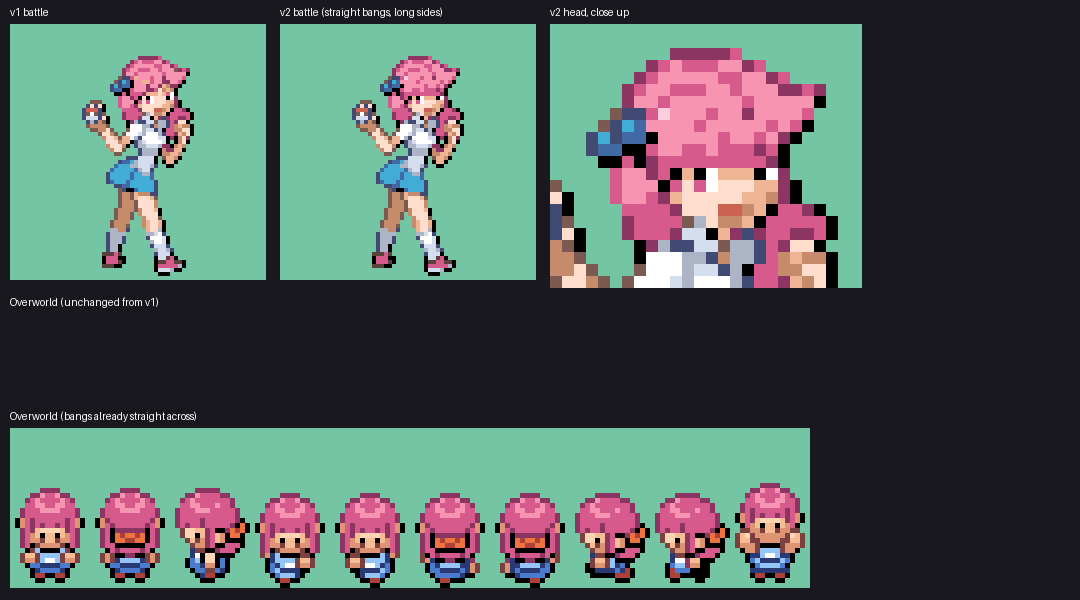
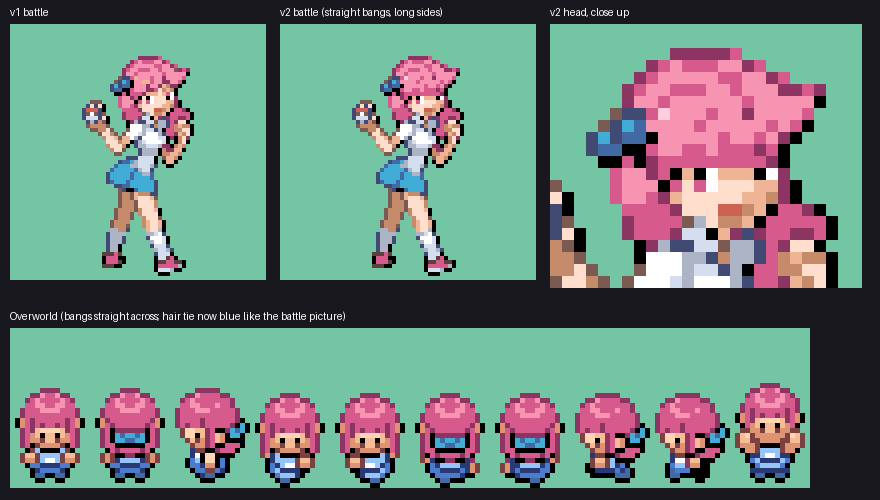
ARIA: Copycat overworld hair tie blue to match her battle picture; cleaner v2 picture
Claude-Session: https://claude.ai/code/session_019khs4XZ7wjpndpyxbzK4Je

diff --git a/tools/aria_copycat_sprites.py b/tools/aria_copycat_sprites.py
@@ -18,5 +18,6 @@ def recolor(path, mapping, keep=lambda x,y,i:False):
 bp=recolor(R+'trainers/front_pics/lass_frlg.png',{11:PINK[1],10:PINK[2],9:PINK[3]},keep=lambda x,y,i:i==9 and y>=56)
 bp.save('ccB_battle.png')
 # overworld: hair 6,7 + its outline 13; dress 8,9,10 -> blue
-ow=recolor(R+'object_events/pics/people/lass_frlg.png',{6:PINK[1],7:PINK[2],13:PINK[3],8:(148,197,246),9:(74,123,205),10:(41,57,115)})
+# ribbon (11,12) made blue to match the battle picture's blue hair tie
+ow=recolor(R+'object_events/pics/people/lass_frlg.png',{6:PINK[1],7:PINK[2],13:PINK[3],8:(148,197,246),9:(74,123,205),10:(41,57,115),11:(65,172,213),12:(65,106,164)})
 ow.save('ccB_ow.png')
